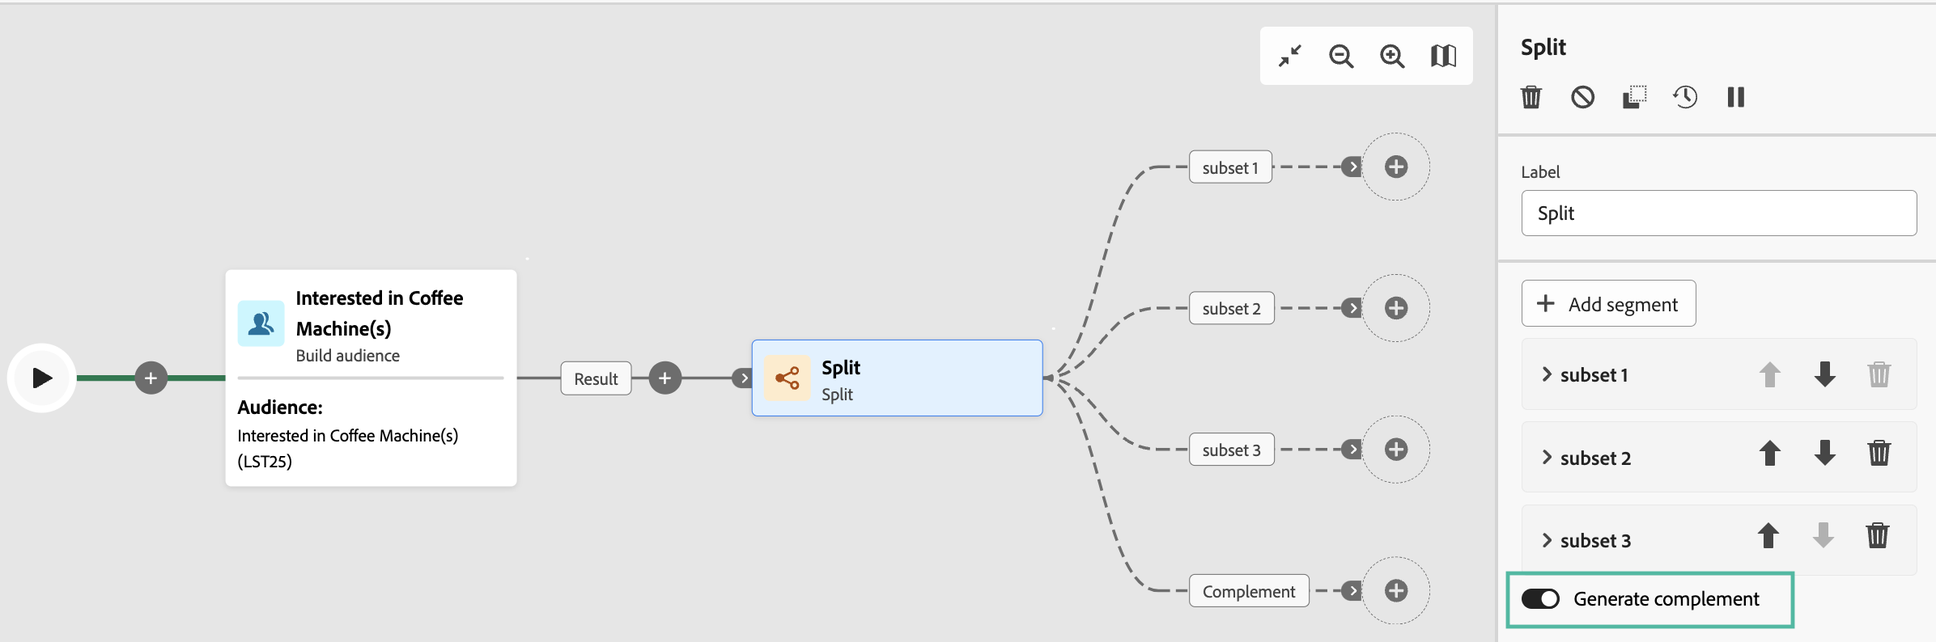
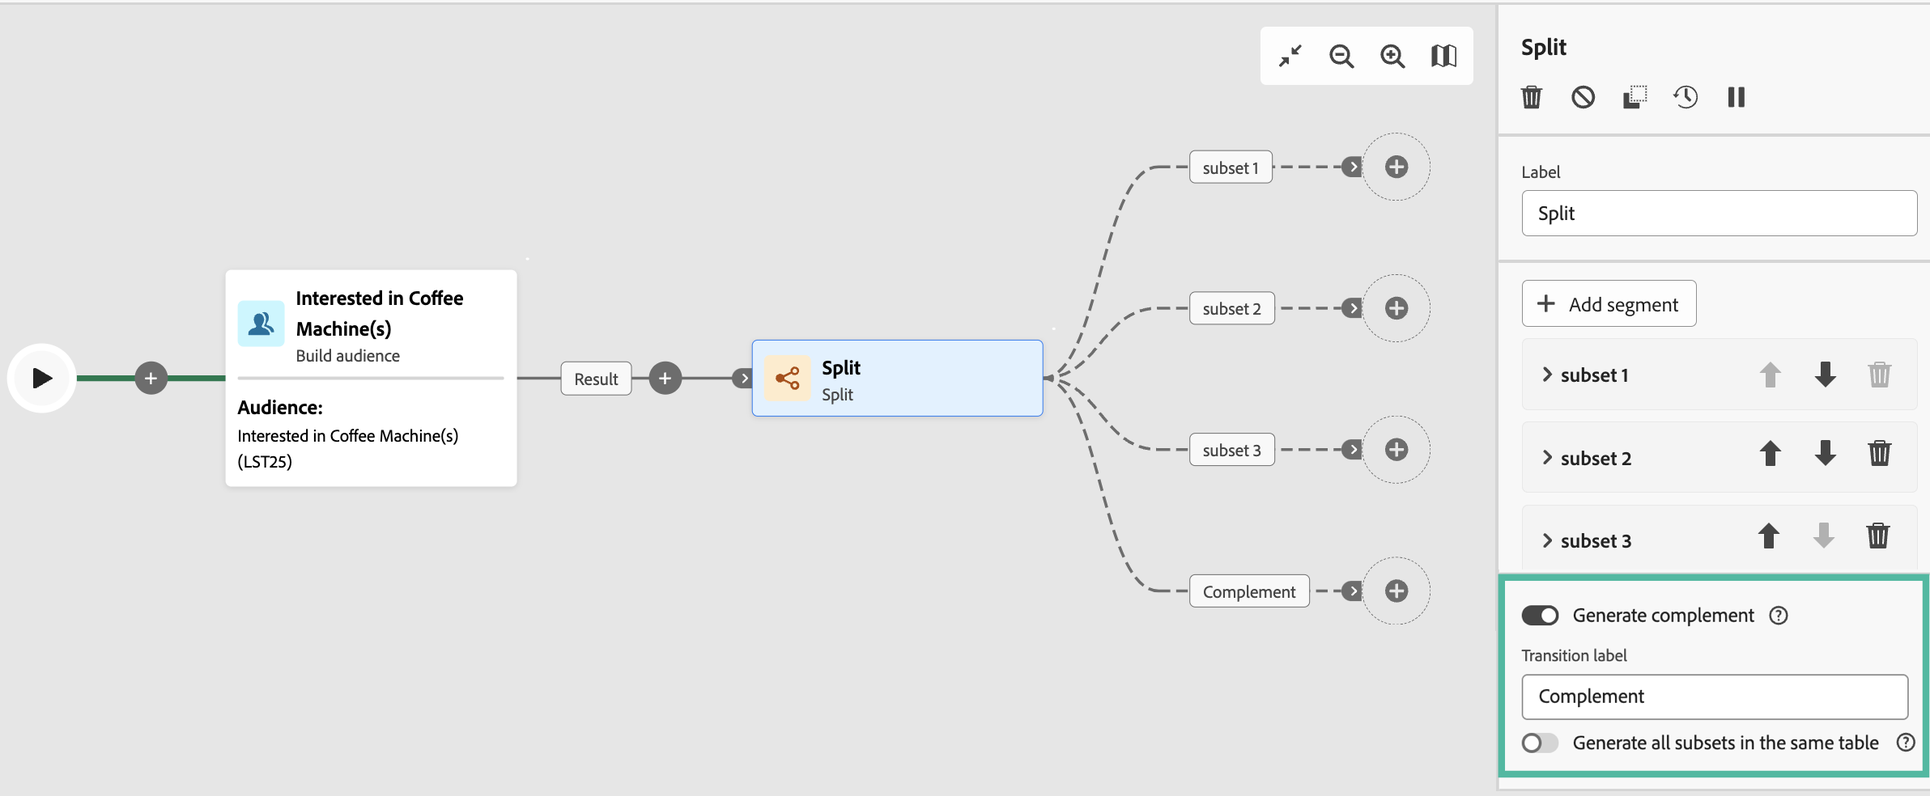
javascript for review

diff --git a/help/v8/workflows/activities/javascript-code.md b/help/v8/workflows/activities/javascript-code.md
@@ -5,52 +5,60 @@ description: Learn how to use the JavaScript code workflow activity
 ---
 # JavaScript code {#javascript-code}
 
-<!--Javascript-->
-
 >[!CONTEXTUALHELP]
 >id="acw_orchestration_javascript"
 >title="JavaScript code"
->abstract="TBC"
+>abstract="The **JavaScript code** activity allows you to execute a JavaScript script in the context of a workflow. This allows you to perform actions or collect information from the database. Use **Simple** JavaScript code activities to execute one code snippet at workflow execution. **Advanced** Javascript code activities allows you to perform more complex operation by executing two different code snippets in a sequential order. The first time the workflow is started, the first call is executed. Each time the workflow runs again, the code defined in the second call is executed."
 
 >[!CONTEXTUALHELP]
 >id="acw_orchestration_javascript_snippet"
 >title="JavaScript Snippet"
->abstract="TBC"
+>abstract="1. Define the script to execute when running the activity. If you are configuring an **Advanced** JavaScript activity, you need to edit two code snippets: the first call code to execute at the first execution of the workflow, and the next call code to execute at the next calls of the workflow."
 
 >[!CONTEXTUALHELP]
 >id="acw_orchestration_javascript_execution"
 >title="JavaScript Execution"
->abstract="TBC"
+>abstract="Configure the execution delay to stop the activity after a period of execution. By default, the execution phase cannot exceed 1 hour. After this delay, the process is aborted with an error message and the activity execution fails. To ignore this limit, set the value to 0."
 
 >[!CONTEXTUALHELP]
 >id="acw_orchestration_javascript_transition"
 >title="JavaScript Transition"
->abstract="TBC"
+>abstract="If you want to add multiple output transitions, click the **[!UICONTROL Add transitions]** button. This allows you, for example to trigger a specific transition based on a specific condition defined in the JavaScript code activity."
 
 The **JavaScript code** activity is a **Data management** activity. Use this activity to execute a JavaScript script in the context of a workflow. This allows you to perform actions, collect information from the database or perform other operation such as initializing event variables in addition to the predefined event variables already available in the expression editor.
-
-Often combined with a Test activity to test the 
 
 ## Configure the JavaScript code activity {#javascript-code-configuration}
 
 Follow these steps to configure the **Load file** activity:
 
+![](../assets/javascript-config.png)
+
 1. Drag and drop a **JavaScript code** activity into your workflow.
 
-1. Choose the type of JavaScript activity to configure
+1. Choose the type of JavaScript activity to configure then confirm:
 
     * **Simple**: Execute one code snippet.
-    * **Advanced**: This option allows you to perform more complex operation by executing two different code snippets in a sequential order. The first time the workflow is started, the first call is executed. Each time the workflow runs again, the code defined in the second call is executed.
+    * **Advanced**: This option allows you to perform more complex operation by executing two different code snippets in a sequential order. The first code snippet is executed the first time the workflow is started. Each time the workflow runs again, the code snippet defined in the second call is executed.
 
-1. Click **[!UICONTROL Continue]** to confirm your selection then click the **[!UICONTROL Edit code]** button to define the script to execute.
+1. In the **[!UICONTROL JavaScript snippet]** section, click the **[!UICONTROL Edit code]** button to define the script to execute.
 
     If you are configuring an **Advanced** JavaScript activity, you need to edit two code snippets:
     * **[!UICONTROL Edit first call code]**: define the script to execute during the first call.
     * **[!UICONTROL Edit next call code]**: define the script to execute during the next calls of the workflow.
 
+1. The expression editor opens. Define the code snippet then click **[!UICONTROL Confirm]** once your script is ready. 
+
+    The left hand-side pane provides predefined syntaxes that you can leverage to build your code:
+
+    * The **[!UICONTROL Event variables]** menu allows you to use [events variable](#event-variables) from the workflow into your code.
+    * The **[!UICONTROL Conditions]** menu provides functions that allow you to build conditions. [Learn how to create condtions in the expression editor](../../personalization/conditions.md#condition-perso-editor)
+    * The **[!UICONTROL Add current date]** menu provides functions related to date formatting.
+
+    ![](../assets/javascript-editor.png)
+
     >[!CAUTION]
     >
-    >Advanced JavaScript is a persistent task and is periodically recalled if it has not been marked as completed. To terminate the task and prevent future recalls, you must use the **task.setCompleted()** method in the **[!UICONTROL Next calls]** section:
+    >**Advanced** JavaScript is a persistent task and is periodically recalled if it has not been marked as completed. If you are configuring an **Advanced** JavaScript activity, make sure you terminate the task and prevent future recalls. To do so, use the **task.setCompleted()** method in your second code snippet (**[!UICONTROL Edit next call code]** button).
     >
     >+++**task.setCompleted()** method sample
     >```
@@ -61,18 +69,34 @@ Follow these steps to configure the **Load file** activity:
     >```
     >+++
 
-1. If you want to add multiple output transitions, click the **[!UICONTROL Add transitions]** button. This allows you, for example to trigger a specific transition based on a specific condition defined in the JavaScript code activity.
+1. If you want to add multiple output transitions after the JavaScript code activity, click **[!UICONTROL Add transitions]**. This allows you, for example to trigger a specific transition based on a specific condition defined in the JavaScript code activity.
 
-1. Configure the execution delay to stop the activity after a period of execution. By default, the execution phase cannot exceed 1 hour. After this delay, the process is aborted with an error message and the activity execution fails. To ignore this limit, set the value to 0.
+1. In the **[!UICONTROL Execution]** section, configure the delay to stop the activity after a period of execution. By default, the execution phase cannot exceed 1 hour. After this delay, the process is aborted with an error message and the activity execution fails. To ignore this limit, set the value to 0.
 
 1. Toggle on the **[!UICONTROL Process errors]** option to keep errors that occur during the script execution in an additional output transition.
 
+## Workflows objects & variables {#event-variables}
+
+JavaScripts executed in the context of a workflow access a series of additional global **objects** such the workflow being executed (`ìnstance`), its various tasks (`task`), or the events that activated a task (`event`).
+
+To each type of **object** is associated a category of **variables** that can be leveraged in your JavaScript code.
+
+* **Instance variables** (`instance.vars.xxx`) are comparable to global variables. They are shared by all activities.
+* **Task variables** (`task.vars.xxx`) are comparable to local variables. They are only used by the current task. These variables are used by persistent activities to keep data and are sometimes used to exchange data between the different scripts of a same activity.
+* **Event variables** (`vars.xxx`) enable the exchange of data between the elementary tasks of a workflow process. These variables are passed by the task that activated the task in progress. They are then passed to the following activities.
+
+Event variables are the most often used variables, and they should be used in preference to instance variables. Predefined event variables are available for use in the expression editor left-hand side pane. You can also create new ones by initializing a new variable in your JavaScript code.
+
+>[!NOTE]
+>
+>Additional information on JavaScript and the exposed objects and variables in Adobe Campaign is available in the Campaign v8 (client console) documentation in [this section](https://experienceleague.adobe.com/en/docs/campaign/automation/workflows/advanced-management/javascript-scripts-and-templates).
+>
+>Please note that while this resource offers valuable insights, discrepancies may exist as it specifically applies to the client console rather than Campaign Web User Interface.
+
+<!--
 ## Example {#javascript-code-example}
 
-Example logInfo to display information into the logs
-When starting the workflow, if check the logs, will see the message defined in the code
-
-
+Trigger transitions
 Can trigger transitions based on the execution of the javascript code
 Example “name” transition 1
 In code, log
@@ -82,7 +106,7 @@ Example if value of a variable = xxx, trigger transition named “xxxx”
 else: trigger another transition
 
 
-Customers can use it to do more ocmplex operations, and don’t need to use a scehduler because time depend on the execution of the workflow.
+Customers can use it to do more complex operations, and don’t need to use a scheduler because time depend on the execution of the workflow.
 scheduler in the javascript activity and can interact with it programmatically.
 example:
 In first call, initialisze a variable with counter 0
@@ -90,3 +114,26 @@ In next call, increment the value.
 can planify the next execution of this activity.
 Get current date, execute again activity.
 Everytime execute the activity, will increment the counter.
+
+
+Calling an instance variable in a query
+> possible ?
+https://experienceleague.adobe.com/en/docs/campaign/automation/workflows/advanced-management/javascript-scripts-and-templates#calling-an-instance-variable-in-a-query
+
+Once you have specified an instance variable in an activity, you can re-use it in a workflow query.
+
+Thus, to call a variable **instance.vars.xxx = "yyy"** in a filter, enter **$(instance/vars/xxx)**.
+
+For example:
+
+1. Create an instance variable that defines a delivery's internal name via the **[!UICONTROL JavaScript code]**: **instance.vars.deliveryIN = "DM42"**.
+
+1. Create a query whose targeting and filtering dimensions are the recipients. In the conditions, specify that you would like to find all the recipients that were sent the delivery specified by the variable.
+
+   As a reminder, this information is stored in the delivery logs.
+
+   To reference the instance variable in the **[!UICONTROL Value]** column, enter **$(instance/vars/@deliveryIN)**.
+
+   The workflow will return the recipients of the DM42 delivery.
+
+-->

diff --git a/help/v8/workflows/activities/change-data-source.md b/help/v8/workflows/activities/change-data-source.md
@@ -1,41 +1,56 @@
 ---
 audience: end-user
-title: Use the Change Data Source workflow activity
-description: Learn how to use the Change Data Source workflow activity
+title: Use the Change data source workflow activity
+description: Learn how to use the Change data source workflow activity
+exl-id: 4dd28746-7bc7-49fc-91ac-3312af02ef45
 ---
-# Change Data Source {#change-data-source}
+# Change data source {#change-data-source}
+
+>[!CONTEXTUALHELP]
+>id="acw_homepage_welcome_rn2"
+>title="Change data source"
+>abstract="Use the new Change data source workflow targeting activity to change the data source used by your workflow's working table. This activity provides more flexibility by allowing you to manage data across your different databases and improve performances."
+>additional-url="https://experienceleague.adobe.com/docs/campaign-web/v8/release-notes/release-notes.html" text="See release notes"
 
 >[!CONTEXTUALHELP]
 >id="acw_orchestration_change_data_source"
->title="Change Data Source"
->abstract="The **Change Data Source** activity allows you to select a different data source for the Working table of your workflow."
+>title="Change data source"
+>abstract="The **Change data source** activity allows you to select a different data source for the Working table of your workflow."
 
-The **Change Data Source** activity is a **targeting** activity. This activity allows you to change the data source used by your workflow Working table. This provides more flexibility by allowing you to manage data across your different databases.
+The **Change data source** activity is a **targeting** activity. This activity allows you to change the data source used by your workflow's Working table. This provides more flexibility by allowing you to manage data across your different databases and improve performances.
 
->[!AVAILABILITY]
->
->The **[!UICONTROL Change Data Source]** activity is available with the "Access to external data (Federated Data Access)" package only. [Learn more](https://experienceleague.adobe.com/docs/campaign/campaign-v8/connect/fda.html){target="_blank"}
+In workflows, data transported from one activity to another through transitions is stored in a temporary **Working table**. By default, Working tables are created in the same database as the source of the processed data. For example, when querying the "Profiles" table, stored on the Cloud database, a Working table is created on the same Cloud database.
 
-## What is a Working table ? {#working-table}
+In some cases, either data is not available on the current database or is not efficient enough to perform unitary operations. You may therefore need to force the workflow to use a different database to perform such operations by adding a **[!UICONTROL Change data source]** activity.
 
-In workflows, data is transported from one activity to another is stored in a temporary **Working table**. By default, Working tables are created in the same database as the source of the data we query on. For example, when querying the "Profiles" table, stored on the Cloud database, a Working table is automatically created on the same Cloud database.
+Detailed information on Campaign architecture is available in [Campaign v8 (client console) documentation](https://experienceleague.adobe.com/docs/campaign/campaign-v8/config/architecture/architecture.html)
 
-To change this, you can add a **Change Data Source** activity to choose a different data source for your Working table. This allows you to leverage data from external databases to perform operations such as enrichment or querying. 
+<!--
 
-Note that, after changing the data source of your Working table, you need to switch it back to the Cloud database to continue the workflow execution by adding another **Change Data Source** activity.
+Let's say you want to send to your  VIP customers a unique offer code that they can redeem on your online store. To do this, you need to:
 
-## Configure the Change Data Source activity {#configure}
+1. Query VIP customers on the "Profiles" table located on the Cloud database,
+1. Retrieve an offer code for each targeted profile through API calls,
+1. Update each profile with the assigned offer code,
+1. Send an email to the profiles with their offer code.
+
+In this situation, it is recommended to execute the offer code assignment operation on the local database, which is better suited for unitary operations. To do this, you need to add a **[!UICONTROL Change data source]** activity before the operation in order to execute it on the Campaign local database.
+
+Before executing the operation, the working table is copied to the local database so that the operation can run there. Once done, the system detects that the profiles that we want to update are on another location. The data is therefore automatically copied back to the Cloud database where the "Profiles" table is located.
+-->
+
+## Configure the Change data source activity {#configure}
 
 Follow these steps to configure the **Change dimension** activity:
 
-1. Add a **Change Data Source** activity to your workflow.
+![](../assets/workflow-change-data-source-add.png)
 
-   ![](../assets/workflow-change-dimension.png)
+1. Add a **Change data source** activity to your workflow.
 
-1. Define the data source where you want to move the worklow Working table:
+1. Define the data source where you want to move the Working table:
 
-   * **[!UICONTROL Default Campaign database (PostgreSQL)]**: Use the default Campaign database.
-   * **[!UICONTROL FDA external account]**: Use external databases connected to Adobe Campaign through Federated Data Access capability.
+   * **[!UICONTROL Default Campaign database (PostgreSQL)]**: Use the default Campaign local database.
+   * **[!UICONTROL FDA external account]**: Use external Cloud databases connected to Adobe Campaign through Federated Data Access capability.
 
       >[!AVAILABILITY]
       >
@@ -43,8 +58,9 @@ Follow these steps to configure the **Change dimension** activity:
 
 1. Configure your workflow to perform the desired operations using the new data source.
 
-   Once done, switch back the Working table data sourcev to the Campaign Cloud database to continue the workflow execution. To do this, add a new **[!UICONTROL Change Data Source]** activity to the workflow and select the **FDA external account** data source.
+<!--
+## Example {#example}
 
-<!--## Example {#example}
+The workflow belows illustrates the use case detailed earlier, i.e. sending VIP customers offer codes that they can redeem on our online store.
 
-In this example, we want to-->
+-->

diff --git a/help/v8/workflows/activities/reconciliation.md b/help/v8/workflows/activities/reconciliation.md
@@ -47,7 +47,8 @@ While the **Enrichment** activity allows you to define additional data to proces
 >[!CONTEXTUALHELP]
 >id="acw_orchestration_reconciliation_rules"
 >title="Reconciliation rules"
->abstract="Select the reconciliation field(s) to use for the deduplication. You can use one or more reconciliation criteria." 
+>abstract="Select reconciliation rules to use for the deduplication. To use attributes, select the **Simple attributes** option and choose the source and destination fields. To create your own reconciliation condition using the query modeler, select the **Advanced reconciliation conditions** option."
+>additional-url="https://experienceleague.adobe.com/en/docs/campaign-web/v8/query-database/query-modeler-overview" text="Work with the query modeler"
 
 >[!CONTEXTUALHELP]
 >id="acw_orchestration_reconciliation_targeting_selection"
@@ -79,9 +80,9 @@ Follow these steps to configure the **Reconciliation** activity:
 
         ![](../assets/workflow-reconciliation-criteria.png)
 
-    1. To use other attributes to reconcile data, select the **Advanced reconciliation conditions** option. You can then create your own reconciliation condition using the query modeler. Learn how to use the query modeler in [this section](../../query/query-modeler-overview.md).
+    1. To use other attributes to reconcile data, select the **Advanced reconciliation conditions** option. You can then create your own reconciliation condition using the query modeler. [Learn how to work with the query modeler](../../query/query-modeler-overview.md).
 
-1. You can filter data to reconciliate using the **Create filter** button. This lets you create a custom condition using the [query modeler](../../query/query-modeler-overview.md).
+1. You can filter data to reconciliate using the **Create filter** button. This lets you create a custom condition using the query modeler. [Learn how to work with the query modeler](../../query/query-modeler-overview.md)
 
 By default, non reconcilied data are kept in the outbound transition and available in the worktable for future use. To remove unreconciled data, desactivate the **Keep unreconciled data** option.
 
@@ -93,7 +94,7 @@ The workflow is designed as follows:
 
 ![](../assets/workflow-reconciliation-sample-1.0.png)
 
-
+ 
 It is built with the following activities:
 
 * A [Load file](load-file.md) activity uploads a file containing profiles data that were extracted from an external tool.

diff --git a/help/v8/workflows/activities/split.md b/help/v8/workflows/activities/split.md
@@ -23,7 +23,8 @@ The **Split** activity is a **Targeting** activity that allows you to segment in
 >[!CONTEXTUALHELP]
 >id="acw_orchestration_split_filter"
 >title="Split activity filter"
->abstract="To apply a filtering condition to the subset, click **[!UICONTROL Create filter]** and configure the desired filtering rule. For example, include profiles from the incoming population whose email address exist in the database."
+>abstract="To apply a filtering condition to the subset, click **[!UICONTROL Create filter]** and configure the desired filtering rule using the query modeler. For example, include profiles from the incoming population whose email address exist in the database."
+>additional-url="https://experienceleague.adobe.com/en/docs/campaign-web/v8/query-database/query-modeler-overview" text="Work with the query modeler"
 
 >[!CONTEXTUALHELP]
 >id="acw_orchestration_split_limit"
@@ -65,7 +66,7 @@ Follow these steps to configure the **Split** activity:
 
     1. Open the subset to display its properties.
 
-    1. To apply a filtering condition to the subset, click **[!UICONTROL Create filter]** and configure the desired filtering rule. For example, include profiles from the incoming population whose email address exist in the database.
+    1. To apply a filtering condition to the subset, click **[!UICONTROL Create filter]** and configure the desired filtering rule using the query modeler. For example, include profiles from the incoming population whose email address exist in the database. [Learn how to work with the query modeler](../../query/query-modeler-overview.md)
 
     1. To limit the number of profiles selected by the subset, toggle on the **[!UICONTROL Enable limit]** option, and specify the number or percentages of the population to include.
 
@@ -80,6 +81,10 @@ Follow these steps to configure the **Split** activity:
 
     ![](../assets/workflow-split-complement.png)
 
+    >[!NOTE]
+    >
+    >The **[!UICONTROL Generate all subsets in the same table]** option allows you to group all the subsets into a single output transition.
+    
 The activity is now configured. At workflow execution, the population will be segmented into the different subsets, in the order they have been added to the activity.
 
 ## Example{#split-example}

diff --git a/help/v8/workflows/gs-workflows.md b/help/v8/workflows/gs-workflows.md
@@ -7,13 +7,6 @@ exl-id: 3358976d-0e7e-41c3-8bf2-d3315226c2fa
 ---
 # Get started with workflows {#workflows}
 
->[!CONTEXTUALHELP]
->id="acw_homepage_welcome_rn2"
->title="Cross-channel workflows"
->abstract="Unlock new possibilities for automation and optimization, allowing you to create more dynamic and personalized customer journeys. From advanced segmentation to conditional triggers, our additional workflow activities empower you to deliver targeted messages and drive better campaign performance."
->additional-url="https://experienceleague.adobe.com/docs/campaign-web/v8/whats-new.html" text="See release notes"
-
-
 ## What is a workflow?
 
 Cross-channel marketing is essential for any business looking to reach its customers effectively. Adobe Campaign provides a comprehensive graphical environment that empowers you to design complex processes that can help you manage your marketing campaigns with ease.

diff --git a/help/v8/workflows/orchestrate-activities.md b/help/v8/workflows/orchestrate-activities.md
@@ -40,6 +40,10 @@ When adding activites, action buttons are available in the properties pane, allo
 
 ![](assets/activity-action.png){zoomable="yes"}{width="50%"}
 
+Several **Targeting** activities, such as **Combine** or **Deduplication**, allow you to process the remaining population and include it into an additional outbound transition. For example, if you're using a **Split** activity, the complement consists of the population that did not match any of the previously defined subsets. To use this capability, activate the **Generate complement** option. 
+
+![](assets/workflow-split-complement.png)
+
 ## Example {#example}
 
 Here is a workflow example designed to send an email to all customers (other than VIP customers) with an email who are interested in coffee machines.

diff --git a/help/v8/workflows/activities/channels.md b/help/v8/workflows/activities/channels.md
@@ -10,7 +10,7 @@ Adobe Campaign Web allows you to automate and execute marketing campaigns across
 
 For example, you can create a welcome email campaign that includes a series of messages across different channels, such as email, SMS, push and direct mail. You can also send a follow-up email after a customer has completed a purchase, or send a personalized birthday message to a customer via SMS. 
 
-By using channel activities, you can create comprehensive and personalized campaigns that engage customers across multiple touchpoints and drive conversions.
+By using channel activities, you can create comprehensive and personalized campaigns that engage customers across multiple touchpoints and drive conversions. 
 
 >[!NOTE]
 >

diff --git a/help/v8/workflows/activities/build-audience.md b/help/v8/workflows/activities/build-audience.md
@@ -29,6 +29,11 @@ The **Build audience** activity can be placed at the beginning of the workflow o
 
 ## Configure the Build audience activity{#build-audience-configuration}
 
+>[!CONTEXTUALHELP]
+>id="acw_orchestration_build_audience_audienceselector"
+>title="Audience"
+>abstract="TBC"
+
 Follow these steps to configure the **Build audience** activity:
 
 ![](../assets/workflow-audience.png)
